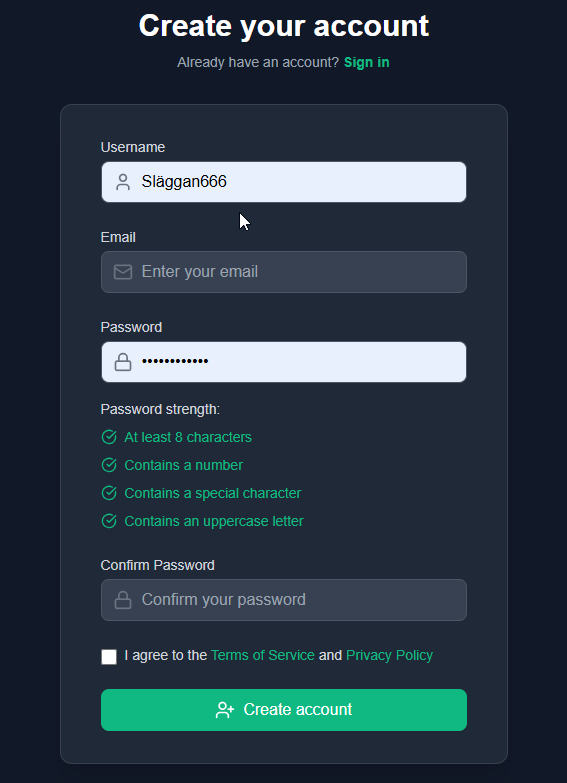
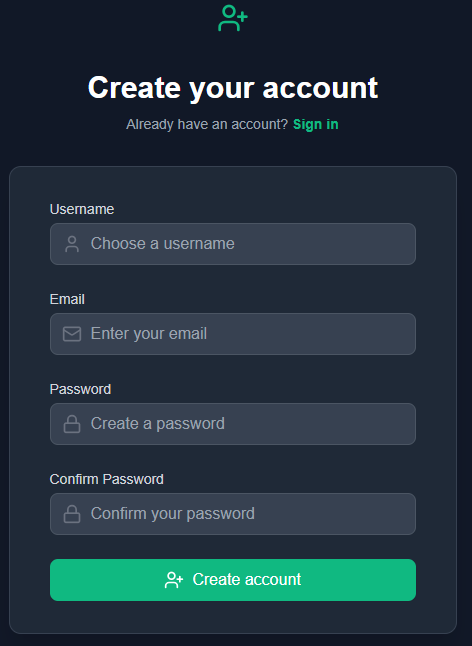
update readme with images

diff --git a/README.md b/README.md
@@ -140,7 +140,8 @@ The Kanban board was created using github projects and can be located [here](htt
 
 The application features a responsive navigation system that adapts to different screen sizes and user authentication states.
 
-#### Logged In Users See:
+#### Logged In Users See
+
 - Dashboard
 - Workouts
 - Social Feed
@@ -148,18 +149,21 @@ The application features a responsive navigation system that adapts to different
 - Sign Out
 - Users Icon and Username
 
-![Navbar Logged In](/documentation/readme_images/)
+![Navbar Logged In](/documentation/readme_images/navbar_logged_in.png)
 
-#### Logged Out Users See:
+#### Logged Out Users See
+
 - Home
+- About
 - Sign In
 - Sign Up
 
-![Navbar Logged Out](/documentation/readme_images/navbar_logged_out.png)
+![Navbar Logged Out](/documentation/readme_images/navbar.png)
 
 ### Authentication Features
 
 #### Sign Up
+
 - Username validation and availability check
 - Email format validation
 - Password strength indicators
@@ -170,6 +174,7 @@ The application features a responsive navigation system that adapts to different
 ![Sign Up Form](/documentation/readme_images/sign_up.png)
 
 #### Sign In
+
 - Remember me functionality
 - Forgot password link
 - Form validation
@@ -177,9 +182,10 @@ The application features a responsive navigation system that adapts to different
 - JWT token management
 - Success/error notifications
 
-![Sign In Form](/documentation/readme_images/login.png)
+![Sign In Form](/documentation/readme_images/sign_in.png)
 
 #### Password Reset
+
 - Email verification
 - Secure token generation
 - Reset form validation
@@ -193,18 +199,20 @@ The application features a responsive navigation system that adapts to different
 The dashboard serves as the central hub for users, providing:
 
 #### Overview Section
+
 - Total workout count
 - Current week's workouts
 - Workout streak counter
 - Total workout minutes
 
 #### Recent Activity
+
 - Latest workouts display
 - Quick access to workout details
 - Edit/delete functionality
 - Activity timestamps
 
-![Dashboard Overview](/documentation/readme_images/dashboard_hero_image.png)
+![Dashboard Overview](/documentation/readme_images/dashboard.png)
 
 ### Workout Management
 
@@ -229,6 +237,8 @@ The dashboard serves as the central hub for users, providing:
 - Delete confirmation
 - Pagination
 
+![Workout History](/documentation/readme_images/workout_history.png)
+
 #### Workout Details
 
 - Complete workout information
@@ -237,8 +247,9 @@ The dashboard serves as the central hub for users, providing:
 - Share capability
 - Comments section
 
-### Social Features
+![Details](/documentation/readme_images//workout_details.png)
 
+### Social Features
 
 #### Activity Feed
 
@@ -247,6 +258,8 @@ The dashboard serves as the central hub for users, providing:
 - Comment system
 - Share workouts
 - Infinite scroll
+
+![Share modal](/documentation/readme_images/share.png)
 
 ![Social Feed](/documentation/readme_images/feed.png)
 
@@ -267,6 +280,8 @@ The dashboard serves as the central hub for users, providing:
 - Recent activity
 - Edit capabilities
 
+![Profile](/documentation/readme_images/profile.png)
+
 #### Profile Edit
 
 - Update personal information
@@ -274,6 +289,8 @@ The dashboard serves as the central hub for users, providing:
 - Modify preferences
 - Password change
 - Success/error handling
+
+![Edit](/documentation/readme_images/profile_edit.png)
 
 ## Components
 
@@ -488,12 +505,14 @@ When using these components:
 The application uses a carefully selected color palette:
 
 Primary Colors:
+
 - Brand Green: `#10B981` - Used for primary actions and success states
 - Dark Background: `#1F2937` - Main background color
 - Light Text: `#F9FAFB` - Primary text color
 - Accent Blue: `#3B82F6` - Used for links and secondary actions
 
 Additional Colors:
+
 - Input Background: `#374151`
 - Border Color: `#4B5563`
 - Error Red: `#EF4444`
@@ -502,13 +521,17 @@ Additional Colors:
 ### Typography
 
 #### Primary Font: Inter
+
 Used for headings and important text
+
 ```css
 @import url('https://fonts.googleapis.com/css2?family=Inter:wght@400;500;600;700&display=swap');
 ```
 
 #### Secondary Font: Open Sans
+
 Used for body text and longer content
+
 ```css
 @import url('https://fonts.googleapis.com/css2?family=Open+Sans:wght@400;600&display=swap');
 ```
@@ -516,11 +539,13 @@ Used for body text and longer content
 ### Layout & Responsive Design
 
 The application follows a mobile-first approach with responsive breakpoints:
+
 - Mobile: < 640px
 - Tablet: 640px - 1024px
 - Desktop: > 1024px
 
 Key layout principles:
+
 - Consistent spacing using TailwindCSS utilities
 - Flexible grid systems
 - Responsive navigation
@@ -529,18 +554,21 @@ Key layout principles:
 ### User Interface Elements
 
 #### Buttons
+
 - Primary: Green background, white text
 - Secondary: Transparent with border
 - Danger: Red background for destructive actions
 - Disabled states with reduced opacity
 
 #### Forms
+
 - Clear label positioning
 - Intuitive input sizing
 - Visible validation states
 - Helpful error messages
 
 #### Cards
+
 - Consistent padding and margins
 - Subtle shadows for depth
 - Responsive scaling
@@ -551,12 +579,14 @@ Key layout principles:
 ### Core Technologies
 
 #### Languages
+
 - HTML5
 - CSS3 (with Tailwind)
 - JavaScript (ES6+)
 - JSX
 
 #### Frameworks & Libraries
+
 - React 18.3.1
 - React Router 6.27.0
 - Axios 1.7.7
@@ -569,6 +599,7 @@ Key layout principles:
 ### Development Tools
 
 #### Code Quality
+
 - ESLint - Code linting
 - Prettier - Code formatting
 - Husky - Git hooks
@@ -576,6 +607,7 @@ Key layout principles:
 - React Testing Library - Component testing
 
 #### Version Control & Deployment
+
 - Git - Version control
 - GitHub - Code repository
 - VS Code - Code editor
@@ -585,21 +617,25 @@ Key layout principles:
 ### UI Components & Libraries
 
 #### Icon System
+
 - Lucide React - Icon library
 - Custom SVG implementations
 
 #### UI Framework
+
 - shadcn/ui components
 - Custom React components
 - Tailwind CSS utilities
 
 #### Data Visualization
+
 - Recharts - Chart library
 - Custom SVG graphs
 
 ### Installation & Setup
 
 #### Prerequisites
+
 ```bash
 Node.js (v18.x+)
 npm (v9.x+)
@@ -609,22 +645,26 @@ Git
 #### Installation Steps
 
 1. Clone the repository
+
 ```bash
 git clone https://github.com/yourusername/fitpro-frontend.git
 cd fitpro-frontend
 ```
 
 2. Install dependencies
+
 ```bash
 npm install
 ```
 
 3. Create environment file
+
 ```bash
 cp .env.example .env.local
 ```
 
 4. Update environment variables
+
 ```env
 REACT_APP_API_URL=https://fitnessapi-d773a1148384.herokuapp.com
 REACT_APP_DEFAULT_PROFILE_IMAGE=https://res.cloudinary.com/dufw4ursl/image/upload/v1/default_profile_ylwpgw
@@ -632,6 +672,7 @@ REACT_APP_CLOUDINARY_CLOUD_NAME=dufw4ursl
 ```
 
 5. Start development server
+
 ```bash
 npm start
 ```
@@ -710,19 +751,11 @@ Most commonly, forks are used to either propose changes to someone else's projec
 
 ### Known Bugs
 
-1. Profile image upload is failing, debugging needed
-2. Recent workouts in profile shows incorrect user's workouts
-3. Mobile keyboard issues with weight/height inputs
-4. Birth date display issues on mobile
-5. Member since date validation error
-6. Search and filter functionality incomplete
-7. Missing home/about page images
-8. Password reset not functional
-9. Login page refresh required after logout
+1. Password reset not functional
 
 ### Planned Improvements
 
-1. Dark mode implementation
+1. Light/Dark mode implementation
 2. Push notifications
 3. Offline support
 4. Performance optimizations
@@ -732,11 +765,12 @@ Most commonly, forks are used to either propose changes to someone else's projec
 ### Acknowledgments
 
 Special thanks to:
-- Code Institute tutors
+
 - Mentor Daisy
 - Testing team/family
 - Fellow developers who provided feedback
 - Stack Overflow community
+- ChatGpt/Claude AI
 
 ## License
 
